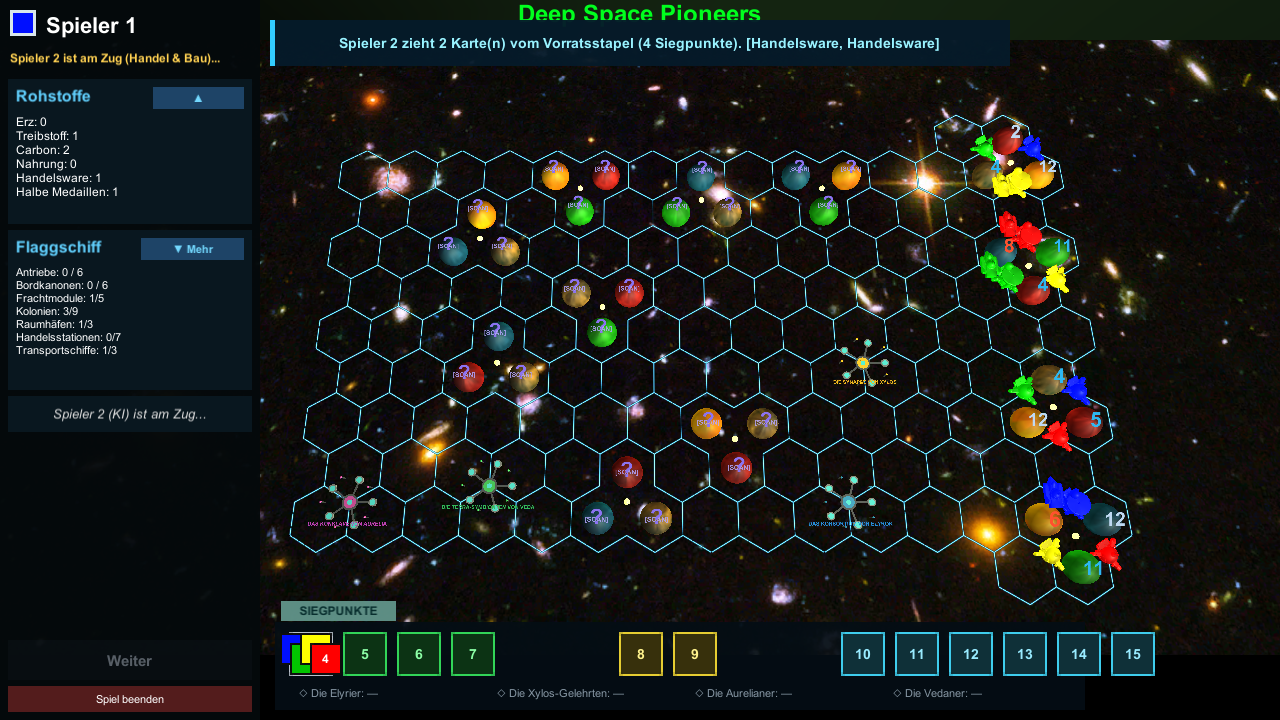
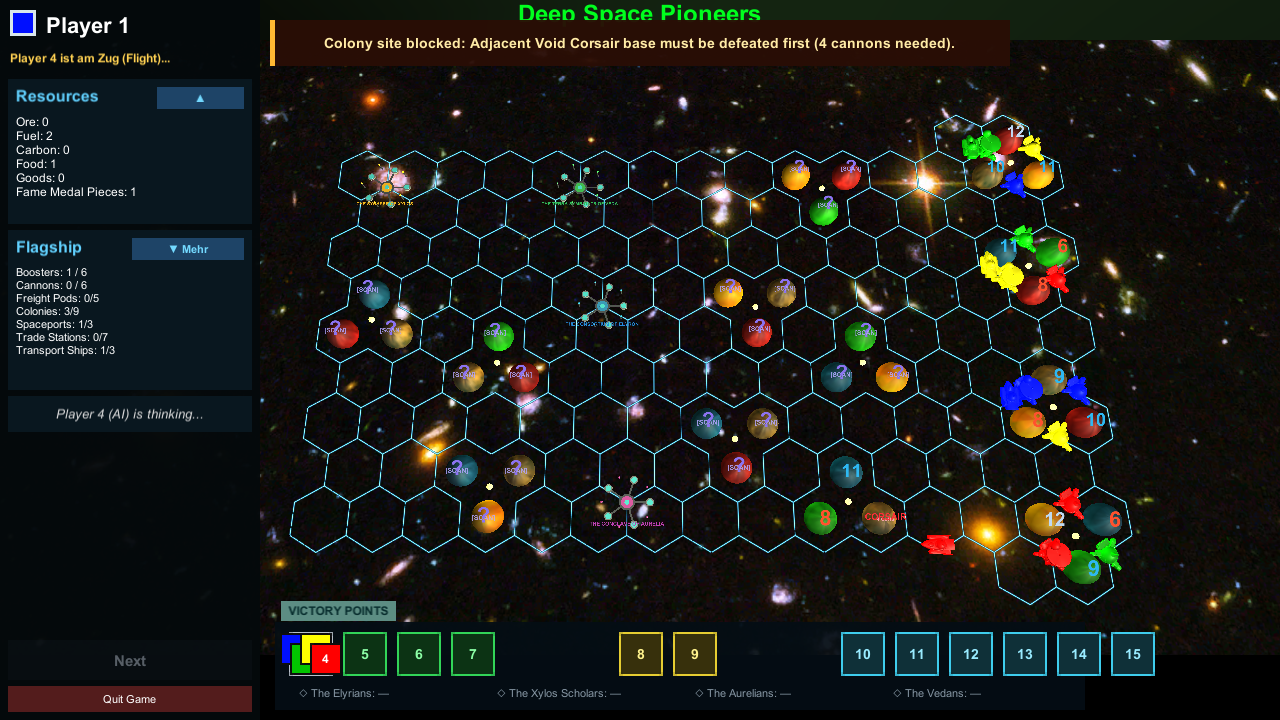
docs: capture English screenshots and add -language:en/de CLI flags

diff --git a/Assets/Scripts/TriMap.cs b/Assets/Scripts/TriMap.cs
@@ -215,7 +215,18 @@ public class TriMap : MonoBehaviour, IQPathWorld
                 DebugSettings.FixedBoardSeed = cliSeed;
                 GameSetupConfig.UseFixedSeed = true;
                 GameSetupConfig.Seed = cliSeed;
-                break;
+            }
+            else if (a.Equals("-language:en", System.StringComparison.OrdinalIgnoreCase) ||
+                     a.Equals("--language:en", System.StringComparison.OrdinalIgnoreCase))
+            {
+                DebugSettings.Language = GameLanguage.English;
+                LocalizationManager.SetLanguage(GameLanguage.English, persist: false);
+            }
+            else if (a.Equals("-language:de", System.StringComparison.OrdinalIgnoreCase) ||
+                     a.Equals("--language:de", System.StringComparison.OrdinalIgnoreCase))
+            {
+                DebugSettings.Language = GameLanguage.German;
+                LocalizationManager.SetLanguage(GameLanguage.German, persist: false);
             }
         }
 
